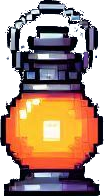
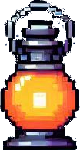
add journal keyboard shortcuts, resize items, stranger journal and updated quest

diff --git a/src/utils/dialog.ts b/src/utils/dialog.ts
@@ -24,7 +24,7 @@ const npcDialogs: Record<NPCType, NPCDialog[]> = {
       },
     },
     {
-      messages: ['You found my book! Thank you!', 'I heard that the stranger has something for you.'],
+      messages: ['You found my book! Thank you!', 'I heard that the stranger might need some help.'],
       conditions: {
         activeQuest: QuestType.InventorBook,
         hasItem: ItemType.Book,
@@ -58,33 +58,34 @@ const npcDialogs: Record<NPCType, NPCDialog[]> = {
     {
       messages: ['I saw her this morning in the forest.'],
       conditions: {
-        completedQuest: QuestType.StrangerRing,
+        completedQuest: QuestType.StrangerMap,
       },
     },
     {
-      messages: ['You found my ring! Thank you!', 'I heard a rumor about the mayor making shady deals...'],
+      messages: ['You found my map! Thank you!', 'I heard a rumor about the mayor making shady deals in the forest...'],
       conditions: {
-        activeQuest: QuestType.StrangerRing,
-        hasItem: ItemType.Ring,
+        activeQuest: QuestType.StrangerMap,
+        hasItem: ItemType.Map,
       },
       onCompleted: (player) => {
-        player.quests.updateExistingQuest(QuestType.StrangerRing, true);
-        player.inventory.removeItem(ItemType.Ring);
+        player.quests.updateExistingQuest(QuestType.StrangerMap, true);
+        player.inventory.removeItem(ItemType.Map);
+        player.journal.addEntry(JournalEntry.StrangerMapFound);
       },
     },
     {
-      messages: ['Did you find my ring?'],
+      messages: ['Did you find my map?'],
       conditions: {
-        activeQuest: QuestType.StrangerRing,
+        activeQuest: QuestType.StrangerMap,
       },
     },
     {
-      messages: ['You helped the inventor?', 'Can you find my ring for me?'],
+      messages: ['You helped the inventor?', 'Can you find my map for me?'],
       conditions: {
         journalEntry: JournalEntry.InventorBookFound,
       },
       onCompleted: (player) => {
-        player.quests.addQuest({ id: QuestType.StrangerRing, name: 'Find the strangers ring', completed: false });
+        player.quests.addQuest({ id: QuestType.StrangerMap, name: 'Find the strangers map', completed: false });
       },
     },
     {

diff --git a/src/scenes/Game.ts b/src/scenes/Game.ts
@@ -50,6 +50,13 @@ export class Game extends Scene {
       this.scene.launch('Paused');
     });
 
+    this.input.keyboard?.on('keydown-J', () => {
+      if (this.player.journal.journal.length > 0) {
+        this.scene.pause();
+        this.scene.launch('JournalDialog', { player: this.player });
+      }
+    });
+
     // setup
     this.cameras.main.startFollow(this.player);
   }
@@ -91,7 +98,7 @@ export class Game extends Scene {
 
   createItems(): Item[] {
     const book = new Item(this, ItemType.Book, this.player);
-    const ring = new Item(this, ItemType.Ring, this.player);
+    const ring = new Item(this, ItemType.Map, this.player);
 
     return [book, ring];
   }

diff --git a/src/classes/Journal.ts b/src/classes/Journal.ts
@@ -10,7 +10,7 @@ export class Journal extends GameObjects.Sprite {
 
   constructor(scene: Phaser.Scene, player: Player) {
     super(scene, Config.width - 50, Config.height - 50, 'journal');
-    this.setScrollFactor(0).setDepth(1).setScale(0.25).setAlpha(0).setInteractive().setActive(false);
+    this.setScrollFactor(0).setDepth(1).setScale(0.5).setAlpha(0).setInteractive().setActive(false);
     scene.add.existing(this);
 
     this.player = player;

diff --git a/src/classes/UI/Message.ts b/src/classes/UI/Message.ts
@@ -23,7 +23,7 @@ export class Message extends GameObjects.Container {
     this.setDepth(2);
     this.setVisible(false);
 
-    const textWidth = width - 110 - padding * 4;
+    const textWidth = width - 120 - padding * 4;
     const textHeight = boxHeight - padding * 2;
 
     this.npcName = new GameObjects.Text(scene, padding + 150, padding - 5, '', { ...fontStyle, color: '#' + Colors.Tan });

diff --git a/src/utils/journalData.ts b/src/utils/journalData.ts
@@ -2,4 +2,6 @@ import { JournalEntry } from '../classes/types';
 
 export const JournalData = {
   [JournalEntry.InventorBookFound]: "I found Johan the inventor's book. He told me that I should seek the stranger underground.",
+  [JournalEntry.StrangerMapFound]:
+    "I found the stranger's map. The stranger told me that the mayor was making a shady deal in the forest at nighttime.",
 };

diff --git a/src/classes/Item.ts b/src/classes/Item.ts
@@ -4,7 +4,7 @@ import { Interactive, InteractResult, ItemType } from './types';
 
 export const ItemData = {
   [ItemType.Book]: { x: 1500, y: 875, image: 'book' },
-  [ItemType.Ring]: { x: 3500, y: 810, image: 'ring' },
+  [ItemType.Map]: { x: 3500, y: 810, image: 'map' },
 };
 
 export class Item extends Phaser.Physics.Arcade.Sprite implements Interactive {

diff --git a/src/classes/types.ts b/src/classes/types.ts
@@ -31,12 +31,12 @@ export enum WarpType {
 
 export enum ItemType {
   Book,
-  Ring,
+  Map,
 }
 
 export enum QuestType {
   InventorBook,
-  StrangerRing,
+  StrangerMap,
 }
 
 export enum NPCType {
@@ -53,4 +53,7 @@ export interface Quest {
 export enum JournalEntry {
   // Inventor
   InventorBookFound,
+
+  // Stranger
+  StrangerMapFound,
 }

diff --git a/src/scenes/JournalDialog.ts b/src/scenes/JournalDialog.ts
@@ -54,6 +54,14 @@ export class JournalDialog extends Scene {
 
     const mask = new Phaser.Display.Masks.BitmapMask(this, maskGraphics);
     text.setMask(mask);
+
+    this.input.keyboard?.on('keydown-J', () => {
+      this.close();
+    });
+
+    this.input.keyboard?.on('keydown-ESC', () => {
+      this.close();
+    });
   }
 
   close() {
